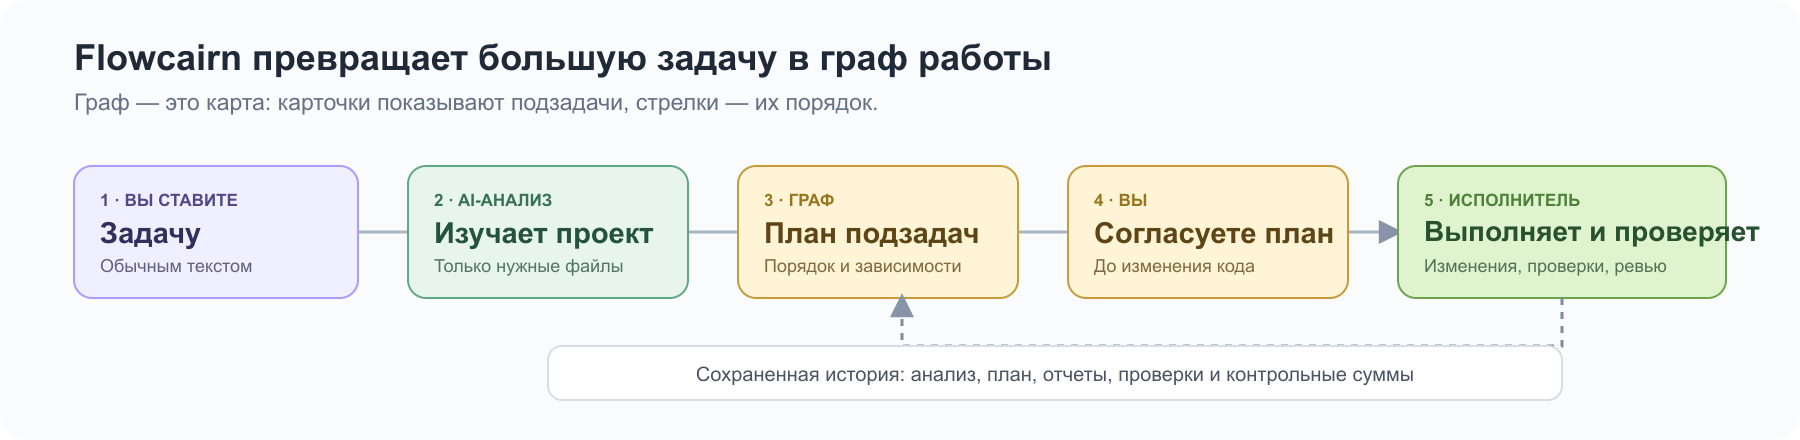
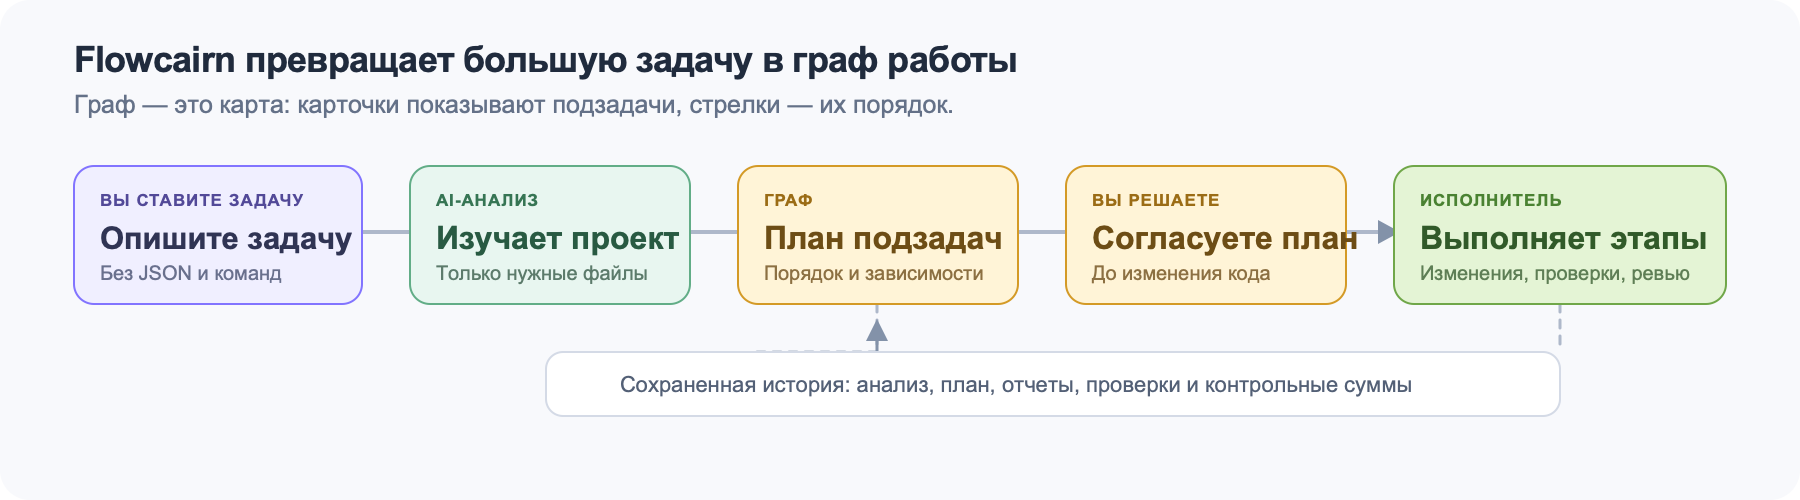
fix(docs): исправил переполнение подписей схем

diff --git a/docs/VERIFICATION.md b/docs/VERIFICATION.md
@@ -8,7 +8,7 @@
 - Hash-bound move переносит большой существующий файл без передачи его content через AI-output. Проверки покрывают scope, source hash, занятый target, symlink/hardlink и receipt changed-files.
 - Product intake принимает до 64 безопасных корневых областей проекта. При большем inventory runtime останавливает intake и требует явного scope.
 - Init автоматически подключает только Skills с понятными ролями: контекст, планирование и передача задачи, тестирование и ревью. Неизвестные локальные Skills остаются отключенными, а `--skills none` отключает рекомендацию.
-- Главный баннер README прошел рендер на полной и узкой ширине: Graph и названия этапов не выходят за границы изображения.
+- Главный баннер README и схема устройства Graph прошли рендер: названия этапов не выходят за границы карточек и изображения.
 - Под Node.js 22.13.1 прошли typecheck, lint, сборка, полный runtime-набор, 60 браузерных сценариев ReactFlow и установочные сценарии в чистых проектах. Пять Docker opt-in сценариев штатно пропускаются без Docker.
 
 ## 0.2.1 — подготовленный выпуск

diff --git a/CHANGELOG.md b/CHANGELOG.md
@@ -2,7 +2,7 @@
 
 ## 0.2.4 — готовится к публикации
 
-- Обновил главный баннер и README: Graph, а не типовой AI-символ, стал главным визуальным образом.
+- Обновил схемы README и главный баннер: Graph, а не типовой AI-символ, стал главным визуальным образом; длинные подписи больше не выходят за карточки.
 - Привел публичную документацию об установке и Skills к автоматическому подбору подходящих project Skills.
 
 ## 0.2.3
